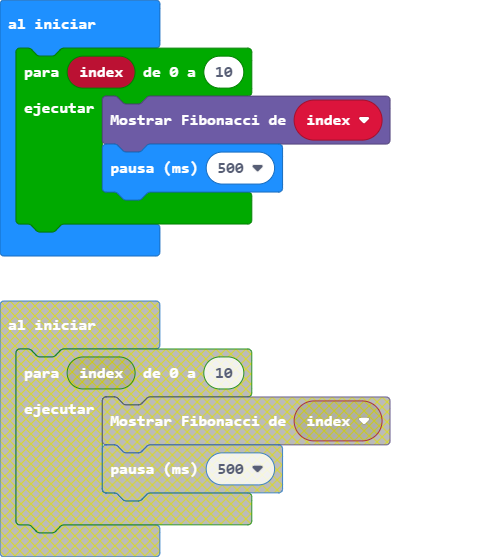
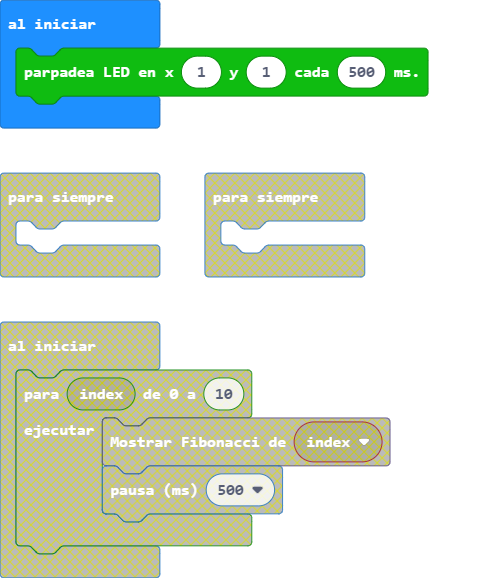
primera versión estable del método "parpadeo"

diff --git a/custom.ts b/custom.ts
@@ -9,7 +9,7 @@ namespace Animaciones {
      * @param y indica la coordenada horizontal de la matriz de led (1-5)
      * @param t indica el tiempo de intervalo del parpadeo en ms (mili segundos)
      */
-    //% block="parpadea LED en x $x y $y por $t ms."
+    //% block="parpadea LED en x $x y $y cada $t ms."
     export function parpadeo(x: number, y: number, t: number): void {
         let sprite = game.createSprite(x-1,y-1) 
         sprite.setBlink(t) 

diff --git a/main.ts b/main.ts
@@ -1,10 +1,1 @@
-for (let index = 0; index <= 10; index++) {
-    fibo.fibonaccii(index)
-    basic.pause(500)
-}
-basic.forever(function () {
-	
-})
-basic.forever(function () {
-	
-})
+Animaciones.parpadeo(1, 1, 500)
